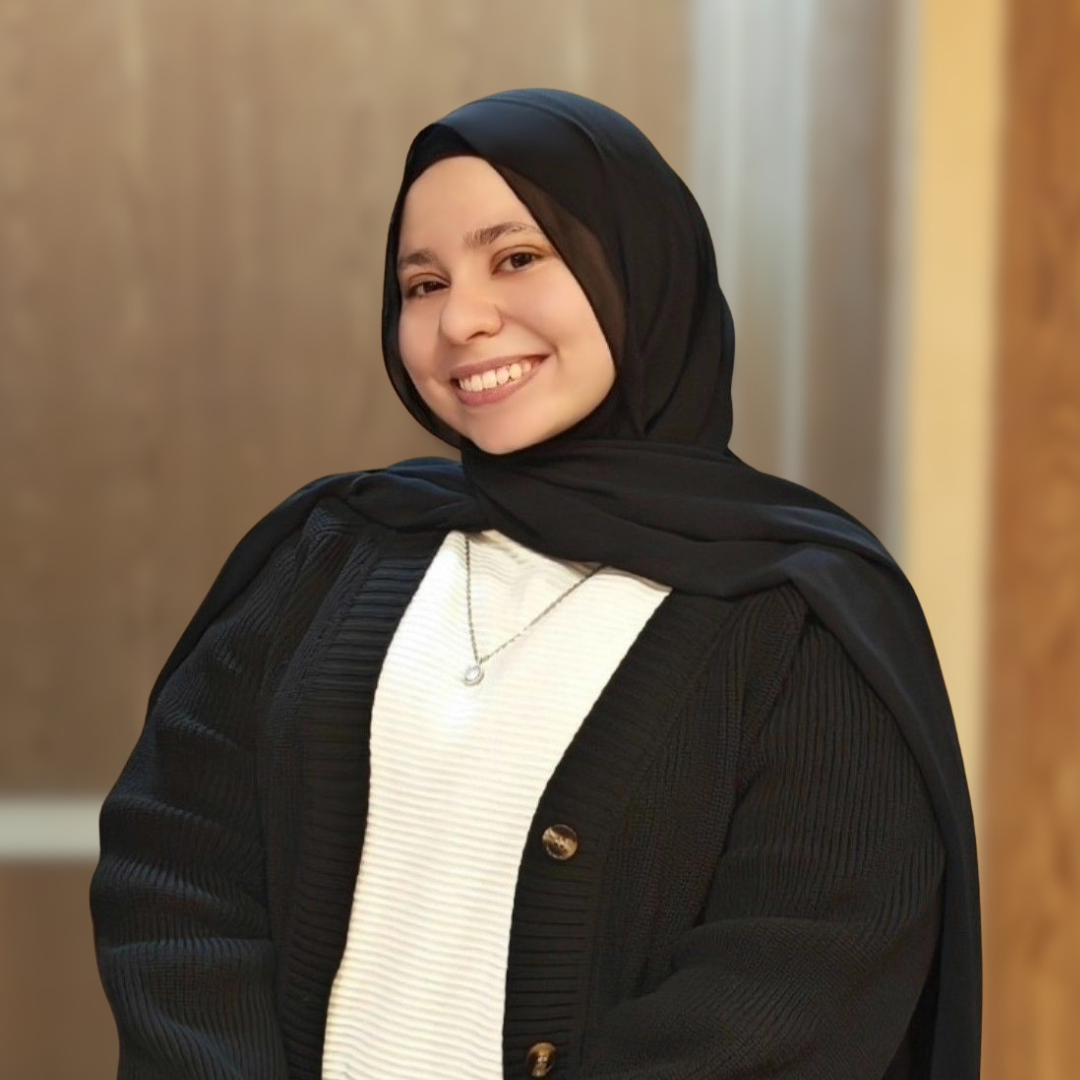
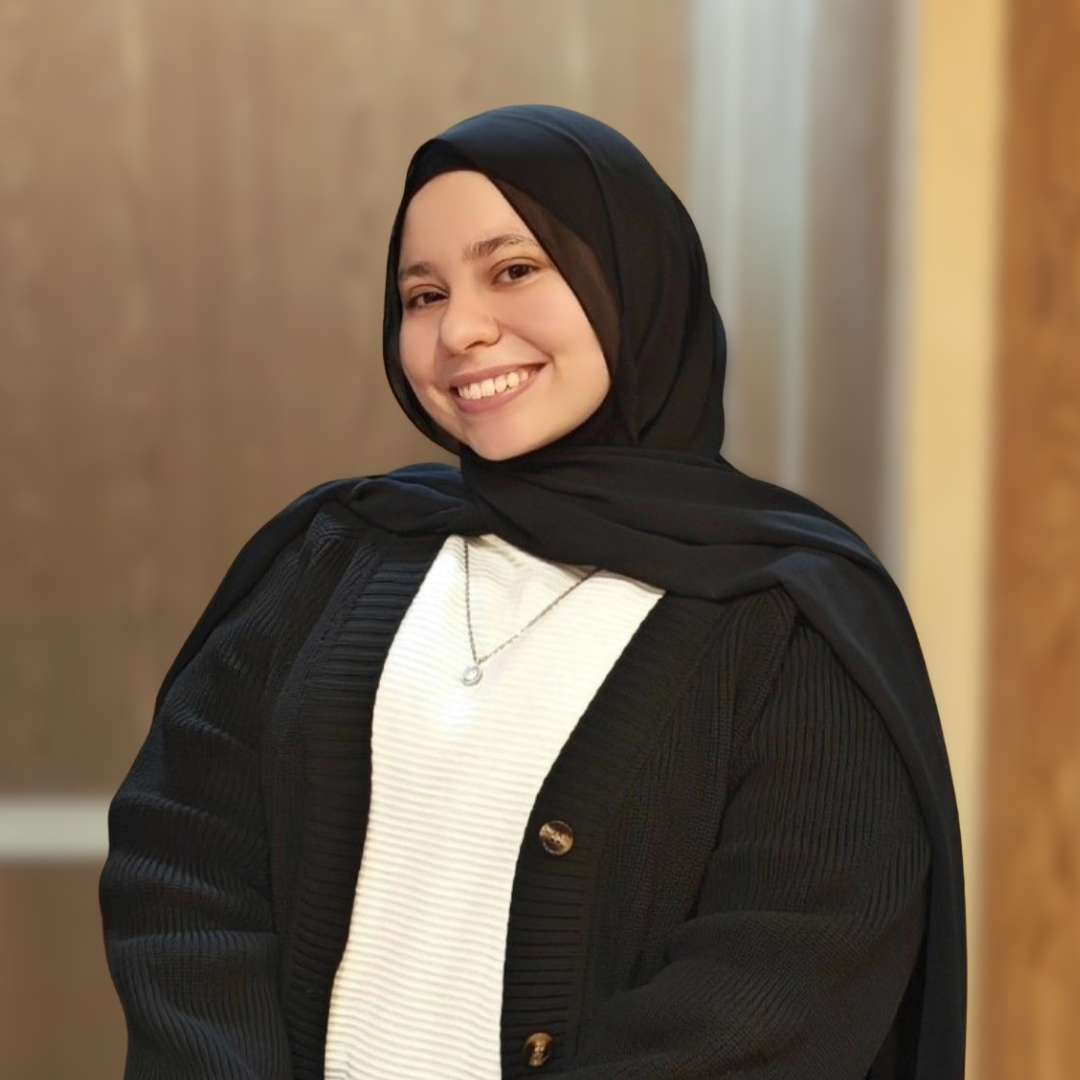
UI: Fix transparent nav bar issue by allowing cloud background to stretch to the absolute top edge

diff --git a/src/pages/Home.tsx b/src/pages/Home.tsx
@@ -89,9 +89,9 @@ export default function Home() {
       />
       
       {/* Full Screen Hero Container */}
-      <div className="flex flex-col relative pt-20 md:pt-24 z-10">
+      <div className="flex flex-col relative z-10">
         {/* 1. Hero Section (Takes full viewport height) */}
-        <section className="min-h-[calc(100svh-5rem)] md:min-h-[calc(100svh-6rem)] relative w-full flex flex-col items-center justify-center py-8 px-6 overflow-hidden">
+        <section className="min-h-[100svh] relative w-full flex flex-col items-center justify-center pt-28 md:pt-32 pb-8 px-6 overflow-hidden">
           
           {/* Soft parallax cloud background - RESTORED */}
           <div className="absolute top-0 left-0 w-full h-full overflow-hidden z-0">
